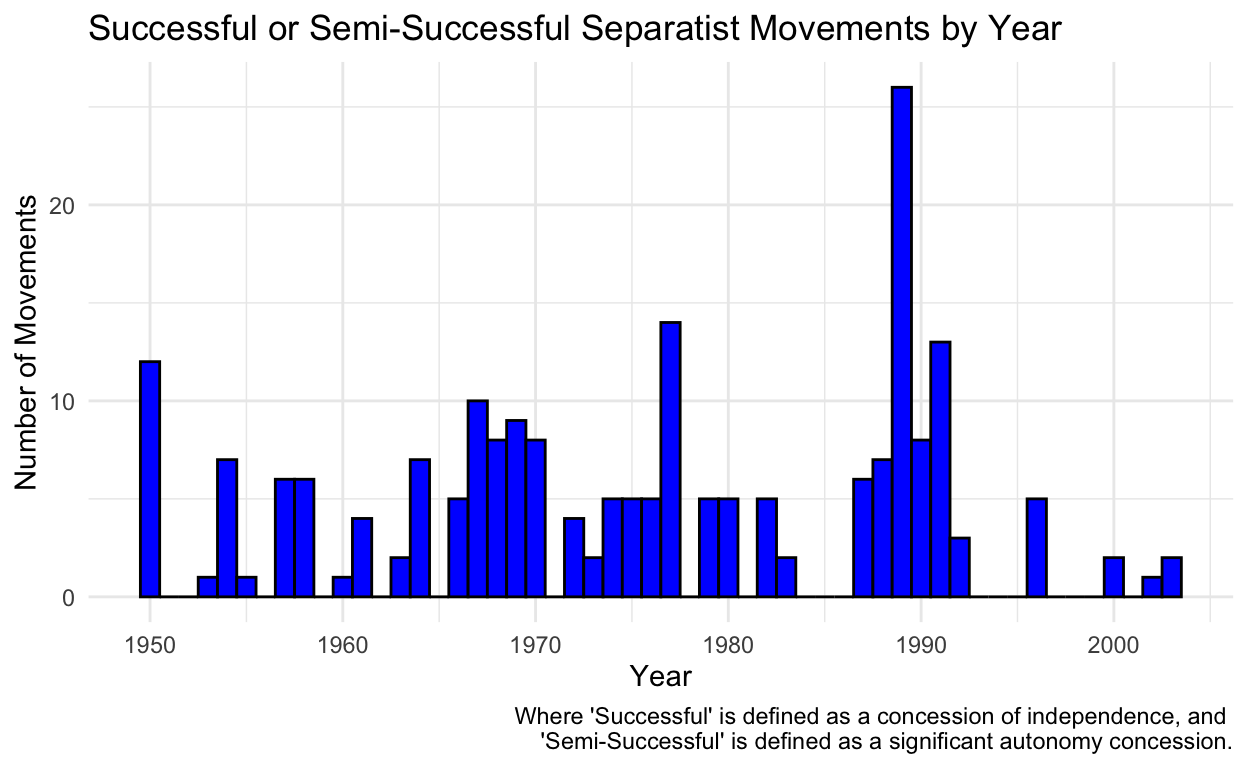
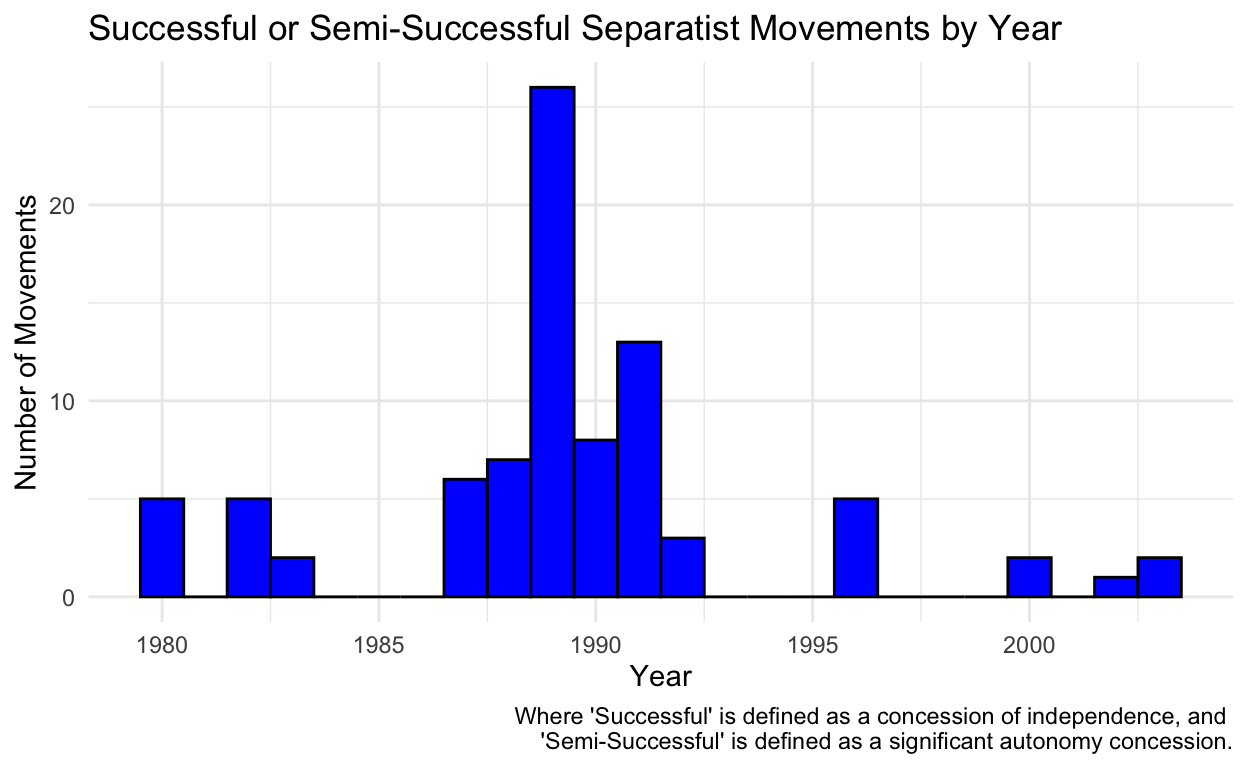
lets see if this works

diff --git a/index.html b/index.html
@@ -98,24 +98,24 @@ code span.wa { color: #5e5e5e; font-style: italic; } /* Warning */
   <!--  https://developers.facebook.com/docs/sharing/webmasters#markup -->
   <meta property="og:title" content="Gov 50 Final Project"/>
   <meta property="og:type" content="article"/>
-  <meta property="og:description" content="Separatist Region Recognition"/>
+  <meta property="og:description" content="Separatist Region Concessions"/>
   <meta property="og:locale" content="en_US"/>
 
   <!--  https://dev.twitter.com/cards/types/summary -->
   <meta property="twitter:card" content="summary"/>
   <meta property="twitter:title" content="Gov 50 Final Project"/>
-  <meta property="twitter:description" content="Separatist Region Recognition"/>
+  <meta property="twitter:description" content="Separatist Region Concessions"/>
 
   <!--/radix_placeholder_meta_tags-->
   <!--radix_placeholder_rmarkdown_metadata-->
 
   <script type="text/json" id="radix-rmarkdown-metadata">
-  {"type":"list","attributes":{"names":{"type":"character","attributes":{},"value":["title","author","description","output"]}},"value":[{"type":"character","attributes":{},"value":["Gov 50 Final Project"]},{"type":"list","attributes":{},"value":[{"type":"list","attributes":{"names":{"type":"character","attributes":{},"value":["name"]}},"value":[{"type":"character","attributes":{},"value":["Peter Jones"]}]}]},{"type":"character","attributes":{},"value":["Separatist Region Recognition"]},{"type":"list","attributes":{"names":{"type":"character","attributes":{},"value":["distill::distill_article"]}},"value":[{"type":"list","attributes":{"names":{"type":"character","attributes":{},"value":["self_contained"]}},"value":[{"type":"logical","attributes":{},"value":[false]}]}]}]}
+  {"type":"list","attributes":{"names":{"type":"character","attributes":{},"value":["title","author","description","output"]}},"value":[{"type":"character","attributes":{},"value":["Gov 50 Final Project"]},{"type":"list","attributes":{},"value":[{"type":"list","attributes":{"names":{"type":"character","attributes":{},"value":["name"]}},"value":[{"type":"character","attributes":{},"value":["Peter Jones"]}]}]},{"type":"character","attributes":{},"value":["Separatist Region Concessions"]},{"type":"list","attributes":{"names":{"type":"character","attributes":{},"value":["distill::distill_article"]}},"value":[{"type":"list","attributes":{"names":{"type":"character","attributes":{},"value":["self_contained"]}},"value":[{"type":"logical","attributes":{},"value":[false]}]}]}]}
   </script>
   <!--/radix_placeholder_rmarkdown_metadata-->
   
   <script type="text/json" id="radix-resource-manifest">
-  {"type":"character","attributes":{},"value":["index_files/anchor-4.2.2/anchor.min.js","index_files/bowser-1.9.3/bowser.min.js","index_files/distill-2.2.21/template.v2.js","index_files/figure-html5/unnamed-chunk-2-1.png","index_files/header-attrs-2.17/header-attrs.js","index_files/header-attrs-2.20/header-attrs.js","index_files/jquery-3.6.0/jquery-3.6.0.js","index_files/jquery-3.6.0/jquery-3.6.0.min.js","index_files/jquery-3.6.0/jquery-3.6.0.min.map","index_files/popper-2.6.0/popper.min.js","index_files/tippy-6.2.7/tippy-bundle.umd.min.js","index_files/tippy-6.2.7/tippy-light-border.css","index_files/tippy-6.2.7/tippy.css","index_files/tippy-6.2.7/tippy.umd.min.js","index_files/webcomponents-2.0.0/webcomponents.js","SDM.csv"]}
+  {"type":"character","attributes":{},"value":["index_files/anchor-4.2.2/anchor.min.js","index_files/bowser-1.9.3/bowser.min.js","index_files/distill-2.2.21/template.v2.js","index_files/figure-html5/unnamed-chunk-2-1.png","index_files/figure-html5/unnamed-chunk-4-1.png","index_files/header-attrs-2.17/header-attrs.js","index_files/header-attrs-2.20/header-attrs.js","index_files/jquery-3.6.0/jquery-3.6.0.js","index_files/jquery-3.6.0/jquery-3.6.0.min.js","index_files/jquery-3.6.0/jquery-3.6.0.min.map","index_files/popper-2.6.0/popper.min.js","index_files/tippy-6.2.7/tippy-bundle.umd.min.js","index_files/tippy-6.2.7/tippy-light-border.css","index_files/tippy-6.2.7/tippy.css","index_files/tippy-6.2.7/tippy.umd.min.js","index_files/webcomponents-2.0.0/webcomponents.js","press-freedom-fh.csv","SDM.csv"]}
   </script>
   <!--radix_placeholder_navigation_in_header-->
   <!--/radix_placeholder_navigation_in_header-->
@@ -1518,7 +1518,7 @@ code span.wa { color: #5e5e5e; font-style: italic; } /* Warning */
 <!--radix_placeholder_front_matter-->
 
 <script id="distill-front-matter" type="text/json">
-{"title":"Gov 50 Final Project","description":"Separatist Region Recognition","authors":[{"author":"Peter Jones","authorURL":"#","affiliation":"&nbsp;","affiliationURL":"#","orcidID":""}]}
+{"title":"Gov 50 Final Project","description":"Separatist Region Concessions","authors":[{"author":"Peter Jones","authorURL":"#","affiliation":"&nbsp;","affiliationURL":"#","orcidID":""}]}
 </script>
 
 <!--/radix_placeholder_front_matter-->
@@ -1532,7 +1532,7 @@ code span.wa { color: #5e5e5e; font-style: italic; } /* Warning */
 
 <!--radix_placeholder_categories-->
 <!--/radix_placeholder_categories-->
-<p>Separatist Region Recognition</p>
+<p>Separatist Region Concessions</p>
 </div>
 
 <div class="d-byline">
@@ -1546,7 +1546,7 @@ code span.wa { color: #5e5e5e; font-style: italic; } /* Warning */
 <p>#Proposal</p>
 <p>Does freedom of expression and association under a state’s central government affect the likelihood that it will have to make autonomy concessions to self-determination movements? In this study, I seek to gain a deeper understanding of the conditions under which self-determination movements (SDMs) in pursuit of sovereignty are more likely to succeed in gaining autonomy concessions from their central governments. It strikes me that a free civil society (for which I will use free-association and -press index scores across times) may serve as a double-edged sword in the context of SDM success. On the one hand, more democratized flow of information likely makes it easier for separatist agents to mobilize, coordinate, and put their ideas into action. On the other hand, repressed civil societies raise the costs of inaction to SDM participants and may therefore incentivize more extreme tactics that are more likely to extract concessions from central governments. My hypothesis is that freer civil societies are more conducive to central government concessions, most likely because there are lesser audience costs in repressive autocracies.</p>
 <p>The explanatory variables I anticipate analyzing across individual SDMs that make sovereignty declarations — those being my unit of analysis — are their central government’s press freedom and assembly freedom index scores at the onset of the conflict (as determined by Reporters Sans Frontieres), and whether or not separatists employed violence. My outcome variable of interest is whether or not the central government made either an “autonomy” concession or an “independence” concession.</p>
-<p>I will use a couple available datasets to conduct this analysis. The most important one is Nicholas Sambanis’s, Micha Germann’s, and Andreas Schädel’s 2018 dataset on Self-Determination Movements from the Journal of Conflict Resolution. This dataset contains every movement between 1945 and 2012 that fits the defintion of “movements by one or more political organizations that are connected to an ethnic group and make claims for increased SD from the state.” This set contains binary variables for concessions and violence, as well as the dates of the movement, and whether or not it made a sovereignty declaration. I will then use Reporters Sans Frontieres’ press freedom index, which it has published since 2002, to extract the press and assembly freedom index scores. While I hope to find some kind of proxy measure for movements between 1945 and 2002, I may just have to make it an analysis of the final decade of the Sambanis data, which I am comfortable with.</p>
+<p>I will use a couple available datasets to conduct this analysis. The most important one is Nicholas Sambanis’s, Micha Germann’s, and Andreas Schädel’s 2018 dataset on Self-Determination Movements from the Journal of Conflict Resolution. This dataset contains every movement between 1945 and 2012 that fits the definition of “movements by one or more political organizations that are connected to an ethnic group and make claims for increased SD from the state.” This set contains binary variables for concessions and violence, as well as the dates of the movement, and whether or not it made a sovereignty declaration. I will then use Reporters Sans Frontieres’ press freedom index, which it has published since 2002, to extract the press and assembly freedom index scores. While I hope to find some kind of proxy measure for movements between 1945 and 2002, I may just have to make it an analysis of the final decade of the Sambanis data, which I am comfortable with.</p>
 <p>A result indicating that SDMs in freer civil societies are less likely to succeed would counter my hypothesis; the converse would confirm it. I am hoping that the breadth of data is wide enough such that I can control for factors like geography and GDP as well; if possible, this would make me more confident in the final result of my analysis.</p>
 <p>#Milestone 3</p>
 <p>#Data Loading</p>
@@ -1554,6 +1554,7 @@ code span.wa { color: #5e5e5e; font-style: italic; } /* Warning */
 <div class="sourceCode">
 <pre class="sourceCode r"><code class="sourceCode r"><span><span class='kw'><a href='https://rdrr.io/r/base/library.html'>library</a></span><span class='op'>(</span><span class='va'><a href='https://tidyverse.tidyverse.org'>tidyverse</a></span><span class='op'>)</span></span>
 <span><span class='kw'><a href='https://rdrr.io/r/base/library.html'>library</a></span><span class='op'>(</span><span class='va'><a href='https://broom.tidymodels.org/'>broom</a></span><span class='op'>)</span></span>
+<span></span>
 <span><span class='va'>SDM</span> <span class='op'>&lt;-</span> <span class='fu'><a href='https://rdrr.io/r/utils/read.table.html'>read.csv</a></span><span class='op'>(</span><span class='st'>"/Users/peterjones/JonesFinalProj/SDM.csv"</span><span class='op'>)</span></span></code></pre>
 </div>
 </div>
@@ -1576,7 +1577,7 @@ code span.wa { color: #5e5e5e; font-style: italic; } /* Warning */
 <div class="sourceCode">
 <pre class="sourceCode r"><code class="sourceCode r"><span><span class='va'>SDMcon</span> <span class='op'>&lt;-</span> <span class='va'>SDM</span> <span class='op'>|&gt;</span></span>
 <span>  <span class='fu'><a href='https://dplyr.tidyverse.org/reference/filter.html'>filter</a></span><span class='op'>(</span><span class='va'>indcon</span> <span class='op'>==</span> <span class='fl'>1</span> <span class='op'>|</span> <span class='va'>autcon</span> <span class='op'>==</span> <span class='fl'>1</span><span class='op'>)</span> <span class='op'>|&gt;</span></span>
-<span>  <span class='fu'><a href='https://dplyr.tidyverse.org/reference/filter.html'>filter</a></span><span class='op'>(</span><span class='va'>startdate1</span> <span class='op'>&gt;</span> <span class='fl'>1949</span><span class='op'>)</span></span>
+<span>  <span class='fu'><a href='https://dplyr.tidyverse.org/reference/filter.html'>filter</a></span><span class='op'>(</span><span class='va'>startdate1</span> <span class='op'>&gt;</span> <span class='fl'>1979</span><span class='op'>)</span></span>
 <span></span>
 <span><span class='fu'><a href='https://ggplot2.tidyverse.org/reference/ggplot.html'>ggplot</a></span><span class='op'>(</span>data<span class='op'>=</span><span class='va'>SDMcon</span>, <span class='fu'><a href='https://ggplot2.tidyverse.org/reference/aes.html'>aes</a></span><span class='op'>(</span>x<span class='op'>=</span><span class='va'>startdate1</span><span class='op'>)</span><span class='op'>)</span> <span class='op'>+</span> </span>
 <span>  <span class='fu'><a href='https://ggplot2.tidyverse.org/reference/geom_histogram.html'>geom_histogram</a></span><span class='op'>(</span>binwidth <span class='op'>=</span> <span class='fl'>1</span>, fill <span class='op'>=</span> <span class='st'>"blue"</span>, color <span class='op'>=</span> <span class='st'>"black"</span><span class='op'>)</span> <span class='op'>+</span></span>
@@ -1590,6 +1591,31 @@ code span.wa { color: #5e5e5e; font-style: italic; } /* Warning */
 <span>  <span class='fu'><a href='https://ggplot2.tidyverse.org/reference/ggtheme.html'>theme_minimal</a></span><span class='op'>(</span><span class='op'>)</span> </span></code></pre>
 </div>
 <p><img src="index_files/figure-html5/unnamed-chunk-2-1.png" width="624" /></p>
+</div>
+<p>#First Analysis</p>
+<p>First I will join the Self-Determination movement data with Freedom House press index scores. This includes doing some clean-up work to fix NAs that erroneously emerge from different place labels for some countries like Russia/USSR. There’s some weird stuff happening with Hungarians in Yugoslavia, coded for a period after Yugoslavia didn’t even exist anymore, that I’ll have to fix later. The press freedom data codes a “0” for no press freedom, a “1” for partial freedom, and a “2” for full freedom.</p>
+<div class="layout-chunk" data-layout="l-body">
+<div class="sourceCode">
+<pre class="sourceCode r"><code class="sourceCode r"><span><span class='va'>freedom</span> <span class='op'>&lt;-</span> <span class='fu'><a href='https://readr.tidyverse.org/reference/read_delim.html'>read_csv</a></span><span class='op'>(</span><span class='st'>"press-freedom-fh.csv"</span><span class='op'>)</span></span>
+<span><span class='va'>freedom</span><span class='op'>$</span><span class='va'>Entity</span><span class='op'>[</span><span class='va'>freedom</span><span class='op'>$</span><span class='va'>Entity</span> <span class='op'>==</span> <span class='st'>"Russia"</span><span class='op'>]</span> <span class='op'>&lt;-</span> <span class='st'>"Russia (USSR)"</span></span>
+<span></span>
+<span><span class='co'>#join with press freedom</span></span>
+<span><span class='va'>SDMcon_freedom</span> <span class='op'>&lt;-</span> <span class='fu'><a href='https://rdrr.io/r/base/merge.html'>merge</a></span><span class='op'>(</span><span class='va'>SDMcon</span>, <span class='va'>freedom</span>, by.x <span class='op'>=</span> <span class='fu'><a href='https://rdrr.io/r/base/c.html'>c</a></span><span class='op'>(</span><span class='st'>"country"</span>, <span class='st'>"year"</span><span class='op'>)</span>, by.y <span class='op'>=</span> <span class='fu'><a href='https://rdrr.io/r/base/c.html'>c</a></span><span class='op'>(</span><span class='st'>"Entity"</span>, <span class='st'>"Year"</span><span class='op'>)</span>, all.x <span class='op'>=</span> <span class='cn'>TRUE</span><span class='op'>)</span></span>
+<span><span class='co'>#move freedom up </span></span>
+<span><span class='va'>SDMcon_freedom</span> <span class='op'>&lt;-</span> <span class='va'>SDMcon_freedom</span><span class='op'>[</span>, <span class='fu'><a href='https://rdrr.io/r/base/c.html'>c</a></span><span class='op'>(</span><span class='fl'>1</span><span class='op'>:</span><span class='fl'>6</span>, <span class='fl'>108</span>, <span class='fl'>7</span><span class='op'>:</span><span class='fl'>107</span><span class='op'>)</span><span class='op'>]</span></span>
+<span><span class='fu'><a href='https://rdrr.io/r/utils/View.html'>View</a></span><span class='op'>(</span><span class='va'>SDMcon_freedom</span><span class='op'>)</span></span></code></pre>
+</div>
+</div>
+<p>For my first analysis, I will now make a bar chart of all the successful SDM movements based on whether they took place under governments that were free-press, partially free-press, or not free at all. Some data still needs to be cleaned and it remains to be seen whether or not the likelihood of success was affected (since this doesn’t include unsuccessful movements), but this should provide a good visual starting-off point.</p>
+<div class="layout-chunk" data-layout="l-body">
+<div class="sourceCode">
+<pre class="sourceCode r"><code class="sourceCode r"><span><span class='fu'><a href='https://ggplot2.tidyverse.org/reference/ggplot.html'>ggplot</a></span><span class='op'>(</span><span class='va'>SDMcon_freedom</span>, <span class='fu'><a href='https://ggplot2.tidyverse.org/reference/aes.html'>aes</a></span><span class='op'>(</span>x <span class='op'>=</span> <span class='va'>`Freedom of the Press`</span><span class='op'>)</span><span class='op'>)</span> <span class='op'>+</span></span>
+<span>  <span class='fu'><a href='https://ggplot2.tidyverse.org/reference/geom_bar.html'>geom_bar</a></span> <span class='op'>(</span>color <span class='op'>=</span> <span class='st'>"blue"</span>, fill <span class='op'>=</span> <span class='st'>"skyblue"</span><span class='op'>)</span> <span class='op'>+</span> </span>
+<span>  <span class='fu'><a href='https://ggplot2.tidyverse.org/reference/labs.html'>labs</a></span><span class='op'>(</span>title <span class='op'>=</span> <span class='st'>"Successful (incl. partial) SDMs by Press Freedom"</span>, </span>
+<span>       x <span class='op'>=</span> <span class='st'>"Freedom Level"</span>,</span>
+<span>       y <span class='op'>=</span> <span class='st'>"Quantity"</span><span class='op'>)</span> </span></code></pre>
+</div>
+<p><img src="index_files/figure-html5/unnamed-chunk-4-1.png" width="624" /></p>
 </div>
 <div class="sourceCode" id="cb4"><pre class="sourceCode r distill-force-highlighting-css"><code class="sourceCode r"></code></pre></div>
 <!--radix_placeholder_article_footer-->
